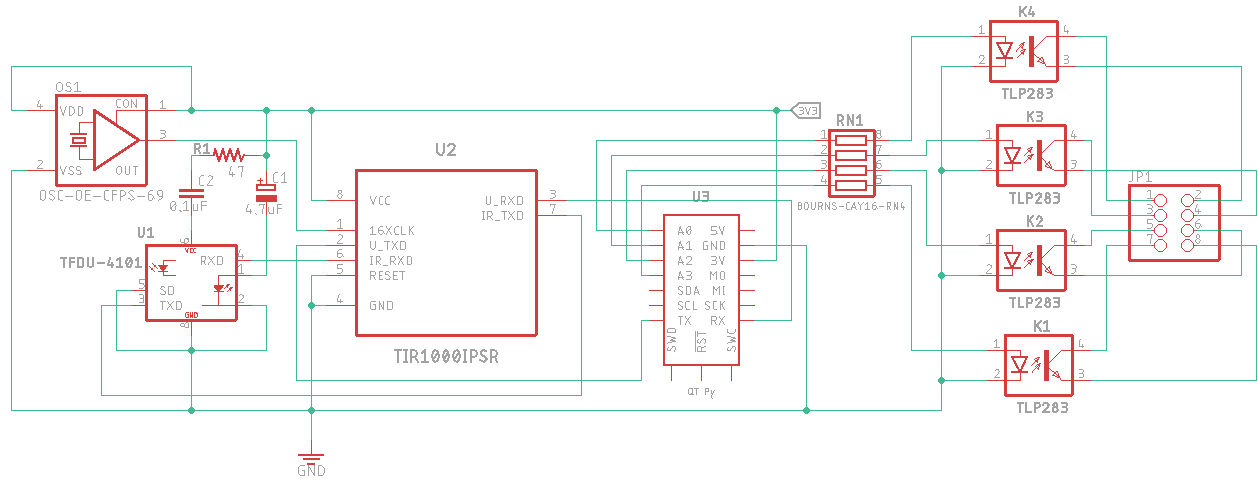
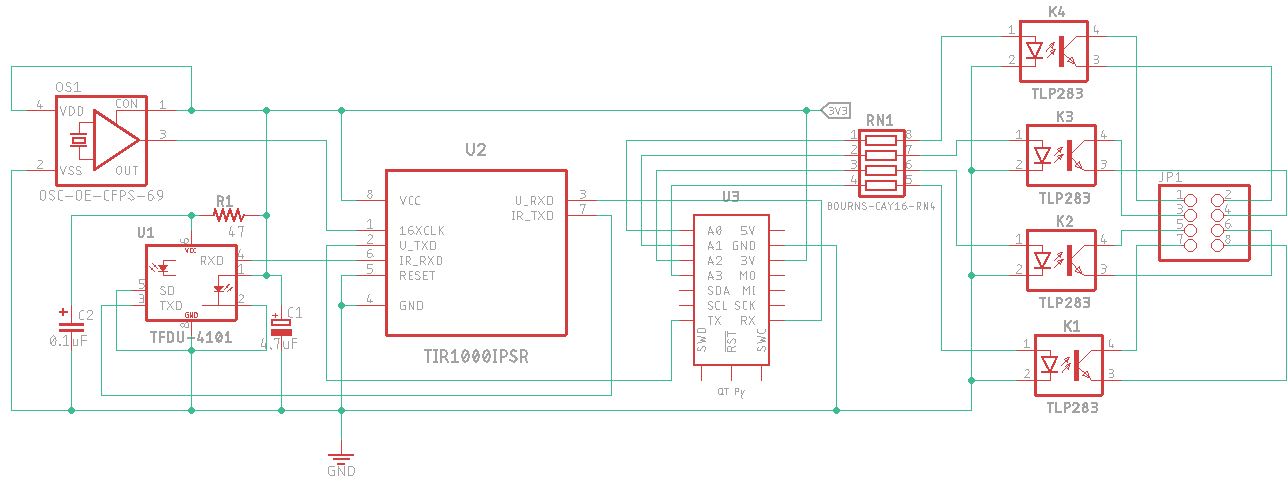
fix passives, parts list

diff --git a/README.md b/README.md
@@ -14,17 +14,17 @@ The use of an IR transceiver & encoder/decoder will allow the MCU to learn and t
 
 ## Status
 
-|    Date    | Status                                                    |
-| :--------: | --------------------------------------------------------- |
-| 2022-10-25 | Reworked defective transceiver library part and passives. |
-| 2022-10-25 | Rev 1a boards and parts have been ordered.                |
+|    Date    | Status                                                       |
+| :--------: | ------------------------------------------------------------ |
+| 2022-10-26 | Rev 1b boards ordered. Order for passives is pending.        |
+| 2022-10-25 | Reworking defective transceiver library part and added passives (finally). |
+| 2022-10-25 | Rev 1a ~~boards and~~ parts have been ordered.               |
 
 The full complement of Eagle and Gerber files (for PCB fabrication) will be provided after proof-of-concept.
 
 ## ToDo List
 
 * Determine if flyback diodes will be required for inductive loads across the relay contacts.
-* Increase K2A & K3A (anode) tracks to 2A class.
 
 ## Notes
 
@@ -32,18 +32,23 @@ The full complement of Eagle and Gerber files (for PCB fabrication) will be prov
 
 ## Parts List
 
-|       | Component                                                    | Quantity | Price each |   Total    | Notes |
-| :---: | ------------------------------------------------------------ | :------: | :--------: | :--------: | ----- |
-|  U1   | [IR Transceiver](https://www.digikey.com/short/1355hrb3)     |    1     |   $5.62    |   $5.62    |       |
-|  U2   | [IR Encoder/Decoder](https://www.digikey.com/short/p2qnwtz0) |    1     |   $2.65    |   $2.65    |       |
-|  OS1  | [Oscillator](https://www.digikey.com/short/chp5z3nb)         |    1     |   $1.07    |   $1.07    |       |
-| K1-K4 | 2A SS [Relays](https://www.digikey.com/short/c07nbzqb)       |    4     |   $1.85    |    7.40    |       |
-|  C1   | 16V 47µF 1206 tantalum [capacitor](https://www.digikey.com/short/nt979437) |    1     |   $0.36    |   $0.36    |       |
-|  C2   | 16V 0.1µF 1206 ceramic [capacitor](https://www.digikey.com/short/2hbqb9fq) |    1     |   $0.11    |   $0.11    |       |
-|  R1   | 47Ω 1206 [resistor](https://www.digikey.com/short/h57hp7z4)  |    1     |   $0.10    |   $0.10    |       |
-|  U3   | MCU - Adafruit QT Py                                         |    1     |            |            |       |
-|       |                                                              |          |            |            |       |
-|       | **Total**                                                    |          |            | **$xx.xx** |       |
+|       | Component                                                    | Quantity | Unit cost @1 board | Unit cost @ 20 boards | $ / bd (@1 bd) | $ / bd (@20 bds) |
+| :---: | ------------------------------------------------------------ | :------: | :----------------: | :-------------------: | :------------: | ---------------- |
+|  U1   | [IR Transceiver](https://www.digikey.com/short/1355hrb3)     |    1     |       $5.62        |         $5.05         |     $5.62      | $5.05            |
+|  U2   | [IR Encoder/Decoder](https://www.digikey.com/short/p2qnwtz0) |    1     |       $2.65        |        $2.382         |     $2.65      | $2.38            |
+|  OS1  | [Oscillator](https://www.digikey.com/short/chp5z3nb)         |    1     |       $1.07        |        $0.946         |     $1.07      | $0.95            |
+| K1-K4 | 2A SS [Relays](https://www.digikey.com/short/c07nbzqb)       |    4     |       $1.85        |        $1.232         |      7.40      | $4.93            |
+|  C1   | 16V 47µF 1206 tantalum [capacitor](https://www.digikey.com/short/nt979437) |    1     |       $0.36        |        $0.249         |     $0.36      | $0.25            |
+|  C2   | 16V 0.1µF 1206 ceramic [capacitor](https://www.digikey.com/short/2hbqb9fq) |    1     |       $0.11        |        $0.076         |     $0.11      | $0.08            |
+|  R1   | 47Ω 1206 [resistor](https://www.digikey.com/short/h57hp7z4)  |    1     |       $0.10        |        $0.032         |     $0.10      | $0.03            |
+|  RN1  | [resistor array](https://www.digikey.com/short/81f2wp7h) 4@100Ω 1206 |    1     |       $0.10        |        $0.087         |     $0.10      | $0.09            |
+|  U3   | MCU - Adafruit QT Py                                         |    1     |                    |                       |                |                  |
+|       |                                                              |          |                    |                       |                |                  |
+|       | **Total**                                                    |          |                    |                       |   **$17.41**   | **$13.75**       |
+
+Digi-Key (US) Component pricing as of 2022-10-26.
+
+Pricing for (20) boards is based on (5) 2x2 panels. Total pricing for some components can be further reduced by ordering (25) units.
 
 ## Components
 
